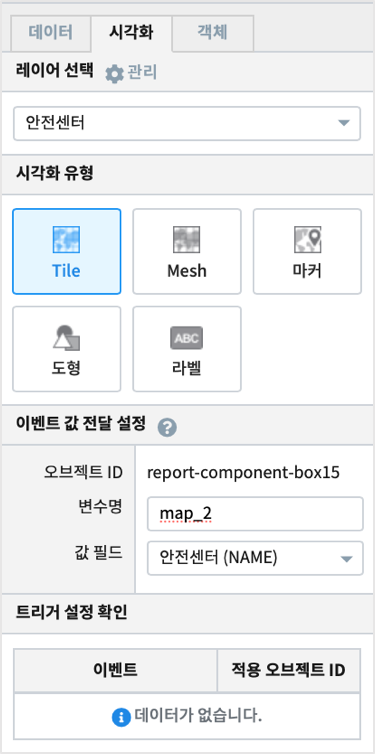
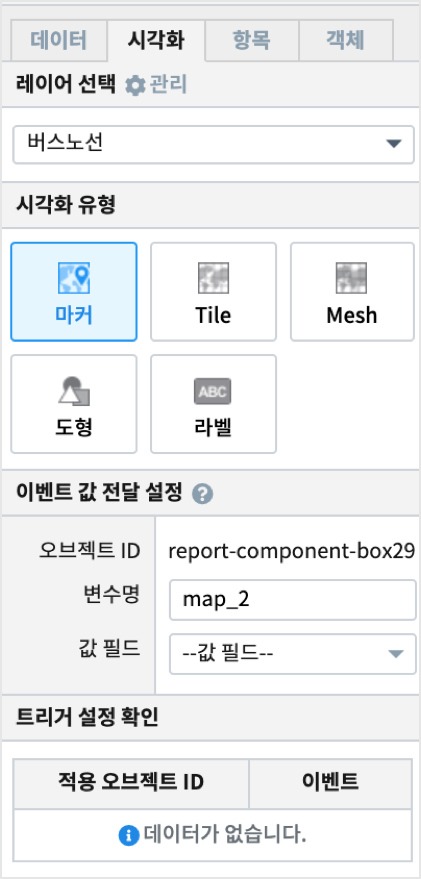
add map path

Changed region(s): [[0.0, 0.2745, 0.9973, 0.9761], [0.0293, 0.0, 0.9387, 0.2745], [0.9093, 0.122, 0.9973, 0.2135]]

diff --git a/IRIS-Studio/data_visualize.rst b/IRIS-Studio/data_visualize.rst
@@ -669,6 +669,8 @@ REST API : 데이터객체로 이전
 .. image:: ./studio/images/map/studio-map.png
 
 | 지도 객체는 요청한 지리정보(Geospatial information)를 활용하여 지도상에 정보를 시각화 할 수 있습니다. 
+| 
+| `지도의 시각화유형 활용 예제 <http://docs.iris.tools/manual/IRIS-Tutorial/IRIS_Studio/02_map_exam/index.html>`__  를 참고하세요. 
 
 
 ''''''''''''''''''''''''''''''''''''''''''''''''''''''''''''''''''''''''''''''''''''''''''''''''''''''''''''
@@ -676,8 +678,9 @@ REST API : 데이터객체로 이전
 ''''''''''''''''''''''''''''''''''''''''''''''''''''''''''''''''''''''''''''''''''''''''''''''''''''''''''''
 
 | 관리 버튼을 클릭하면 아래와 같이 레이어 관리 팝업이 열립니다.
+| "layer map (지도)" 레이어는 기본 지도 레이어로 Naver Web Map 과 Open Street Map 을 지도 API로 제공합니다.
 
-.. image:: ./studio/images/map/map_01.png
+.. image:: ./studio/images/map/map_0831_05.png
     :width: 300
     :alt: 레이어 선택
 
@@ -708,30 +711,37 @@ REST API : 데이터객체로 이전
 데이터 설정 : layer map(지도)
 ................................................................................................................................
 
-.. image:: ./studio/images/map/map_03.png
-    :width: 300
-    :alt: 지도 API 선택
-
 
 **지도 API 선택**
 
 | Open Street Map에서 제공하는 API를 사용할지 Naver Web Map에서 제공하는 API를 사용할지를 선택합니다.
 
+.. image:: ./studio/images/map/map_03.png
+    :width: 300
+    :alt: 지도 API 선택
+
+
+**지도 URL**
+
+| Open Street Map 을 선택한 경우, 지도 데이터를 가져올 Tiles URL이 자동으로 설정되어 표시됩니다.
+| 인터넷 연결에서는 자동 설정 후 표시되어 사용자가 따로 설정할 필요는 없으나, 폐쇄망인 경우에는 자체 지도 이미지 서버 URI로 설정해야 합니다.
+
 .. image:: ./studio/images/map/map_04.png
     :width: 300
     :alt: 지도 URL
 
-**지도 URL**
 
-| 지도 데이터를 가져올 Tiles URL를 설정합니다.
+**기본 값 설정**
+
+| 지도 API 를 선택한 후, 지도 오른쪽 상단을 "객체 위치 이동" 에서 "지도 이동" 이 되도록 변경하여 지도의 위치(위도, 경도, 줌 레벨)을 설정합니다.
+| 
+
+map_0831_06_1.png
+
 
 .. image:: ./studio/images/map/map_05.png
     :width: 300
     :alt: 기본값 설정
-
-**기본 값 설정**
-
-| 현재 지도의 위치(위도, 경도, 줌 레벨)을 설정합니다.
 
 
 .. image:: ./studio/images/map/studio_map_28.png
@@ -790,13 +800,17 @@ REST API : 데이터객체로 이전
 레이어 설정
 ''''''''''''''''''''''''''''''''''''''''''''''''''''''''''''''''''''''''''''''''''''''''''''''''
 
+| 레이어 선택 메뉴에서 기본 layer map 위에 추가하는 레이어에 대한 설정입니다.
+
 ..................................................................
 데이터 설정
 ..................................................................
 
-.. image:: ./studio/images/map/studio_map_30_1.png
+
+.. image:: ./studio/images/map/map_0831_06_2.png
     :scale: 60%
     :alt: 데이터 설정
+
 
 
 | 챠트의 데이터 설정 항목 `데이터 설정 <http://docs.iris.tools/manual/IRIS-Manual/IRIS-Studio/data_visualize.html#id1>`__  을 참고하시기 바랍니다.
@@ -819,9 +833,6 @@ REST API : 데이터객체로 이전
 
 | 선택한 레이어의 시각화 유형을 선택할 수 있습니다.
 
-.. image:: ./studio/images/map/map_07.png
-    :width: 300
-    :alt: 시각화 유형
 
 .. csv-table::
     :header: "종류", "설명"
@@ -833,43 +844,12 @@ REST API : 데이터객체로 이전
     "도형", "지도에 polygon 및 multi-polygon Layer를 선택합니다."
     "라벨", "지도에 텍스트 라벨을 표시하는 Layer를 선택합니다."
 
+
 ~~~~~~~~~~~~~~~~~~~~~~~~~~~~~~~~~~~~~~~~~~~~~~~~~~~~~~~~~~~~~~~~~~~~~~~~~~~~~~
 시각화 옵션
 ~~~~~~~~~~~~~~~~~~~~~~~~~~~~~~~~~~~~~~~~~~~~~~~~~~~~~~~~~~~~~~~~~~~~~~~~~~~~~~
 
-| Map의 옵션을 설정할 수 있습니다.
-
-
-
-**Tile**
-
-.. image:: ./studio/images/map/studio_map_32.png
-    :alt: 시각화 옵션 Tile
-
-| Grid 탭 설명
-
-.. csv-table::
-    :header: "옵션 명", "설명"
-    :widths: 40, 100
-
-    "격자", "Tile 및 Mesh에서 격자가 보이거나 안 보이도록 설정합니다."
-    "투명도", "Layer의 투명도를 설정합니다."
-
-
-
-**Mesh**
-
-.. image:: ./studio/images/map/studio_map_33.png
-    :alt: 시각화 옵션 Mesh
-
-| Grid 탭 설명
-
-.. csv-table::
-    :header: "옵션 명", "설명"
-    :widths: 40, 100
-
-    "격자", "Tile 및 Mesh에서 격자가 보이거나 안 보이도록 설정합니다."
-    "투명도", "Layer의 투명도를 설정합니다."
+| 데이터 탭에서 데이터를 설정한 후 **실행** 을 클릭하여 데이터를 가져온 후에 Map의 시각화 옵션을 설정할 수 있습니다.
 
 
 
@@ -887,6 +867,36 @@ REST API : 데이터객체로 이전
     "마커 종류", "포인트 및 깃발을 설정합니다."
     "최대 개수", "마커 최대 개수를 설정합니다."
     "크기", "마커 크기를 설정합니다."
+
+| 좌표를 마커로 표시하는 시각화 방법은 포인트와 깃발 중에서 선택 할 수 있습니다.
+| 
+| (2020.08월 추가) 데이터 탭에서 마커에 해당하는 좌표마다 순번(sequence)이 있는 데이터인 경우에는 "경로 순서" 데이터 컬럼으로 지정하여 마커 지점과 마커 지점사이를
+| 화살표 선으로 경로를 표시할 수 있습니다.
+
+
+**Tile**
+
+| Grid 탭 설명
+
+.. csv-table::
+    :header: "옵션 명", "설명"
+    :widths: 40, 100
+
+    "격자", "Tile 및 Mesh에서 격자가 보이거나 안 보이도록 설정합니다."
+    "투명도", "Layer의 투명도를 설정합니다."
+
+
+
+**Mesh**
+
+| Grid 탭 설명
+
+.. csv-table::
+    :header: "옵션 명", "설명"
+    :widths: 40, 100
+
+    "격자", "Tile 및 Mesh에서 격자가 보이거나 안 보이도록 설정합니다."
+    "투명도", "Layer의 투명도를 설정합니다."
 
 
 
@@ -940,7 +950,8 @@ REST API : 데이터객체로 이전
 
 
 
-**색상**
+
+**색상 (공동)**
 
 .. image:: ./studio/images/map/map_11.png
     :width: 300
@@ -957,7 +968,7 @@ REST API : 데이터객체로 이전
     "범례", "Layer에 범례를 표시할지 안 할지를 설정합니다."
 
 
-**튤팁**
+**튤팁 (공동)**
 
 튤팁에 표시할 데이터의 컬럼을 설정합니다.
 

diff --git a/IRIS-Studio/form.rst b/IRIS-Studio/form.rst
@@ -681,7 +681,6 @@ Text Area에 읽기만 가능하도록 설정합니다.
 | 여러 개의 기간을 목록으로 구성한 후 콤보박스에서 기간을 선택하여 조회 할 수 있습니다.
 
 .. image:: ./studio/images/period/period_setting_03.png
-    :scale: 60%
     :alt: 기간 설정 03
 
 
@@ -690,7 +689,6 @@ Text Area에 읽기만 가능하도록 설정합니다.
 | 시간 설정 팝업창에서 "미리 설정", "날짜 및 시간 범위" 를 선택하여 시작 시간, 끝 시간을 정할 수 있습니다.
 
 .. image:: ./studio/images/period/period_setting_04.png
-  :scale: 60%
   :alt: 기간 설정 04
 
 
